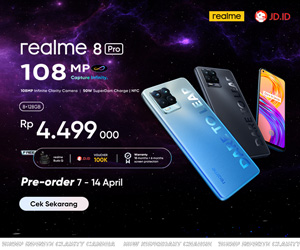
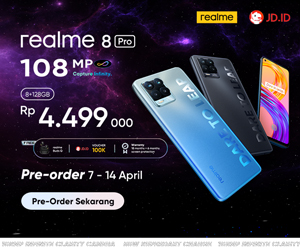
srgsg

Changed region(s): [[0.06, 0.112, 0.99, 0.868], [0.63, 0.028, 0.99, 0.112]]

diff --git a/m.idntimes/masthead/realme/index.html b/m.idntimes/masthead/realme/index.html
@@ -1315,17 +1315,19 @@ Kenapa pemerintah tidak mengambil jalan yang kiranya efisien? Seperti mengikuti 
     </script>
 </div>
 <div class="leaderboard-ads">
-    <!--              <iframe width="197" height="110" src="https://www.youtube.com/embed/wGcz5HsftYs?autoplay=1&mute=1" title="YouTube video player" frameborder="0" allow="accelerometer; autoplay; clipboard-write; encrypted-media; gyroscope; picture-in-picture" allowfullscreen style="position: absolute; top: 23px; left: 52px;"></iframe>-->
+    
    
     <div style="position: relative; width: 300px; height: 250px; display: block; left: 0; right: 0; margin: auto;">
          <a href="https://www.youtube.com/watch?v=wGcz5HsftYs" target="_blank" style="position: absolute; display: block; width: 300px; height: 250px;"></a>
-         <div class="iframe-container" style="position: absolute; width: 197px; height: 110px; top: 23px; left: 52px;">
-             <div id="player" style="width: 197px; height: 110px;"></div>
-        </div>
+         <iframe width="197" height="110" src="https://www.youtube.com/embed/wGcz5HsftYs?autoplay=0&mute=1" title="YouTube video player" frameborder="0" allow="accelerometer; autoplay; clipboard-write; encrypted-media; gyroscope; picture-in-picture" allowfullscreen style="position: absolute; top: 23px; left: 52px;"></iframe>
         <img src="300x250.gif" style="max-width: 300px; height: 250px;">
     </div>
     
-    
+<!--
+    <div class="iframe-container" style="position: absolute; width: 197px; height: 110px; top: 23px; left: 52px;">
+             <div id="player" style="width: 197px; height: 110px;"></div>
+        </div>
+-->
 
 <script>
   // 2. This code loads the IFrame Player API code asynchronously.

diff --git a/m.idntimes/masthead/realme/index2.html b/m.idntimes/masthead/realme/index2.html
@@ -1315,7 +1315,7 @@ Kenapa pemerintah tidak mengambil jalan yang kiranya efisien? Seperti mengikuti 
     </script>
 </div>
 <div class="leaderboard-ads">
-   <a href="https://www.youtube.com/watch?v=wGcz5HsftYs" target="_blank">
+   <a href="https://www.jd.id/product/_627702984/627703594.html?utm_source=realme8pro_idntimes&utm_medium=banner&utm_campaign=realme_8_pro_blue" target="_blank">
         <img src="300x250-img.jpg">
     </a>
     
